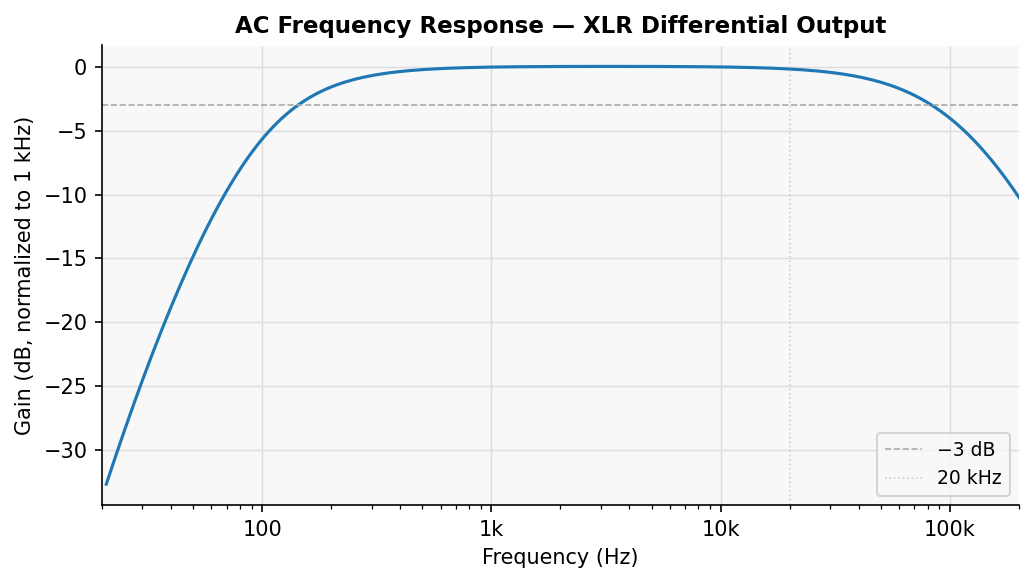
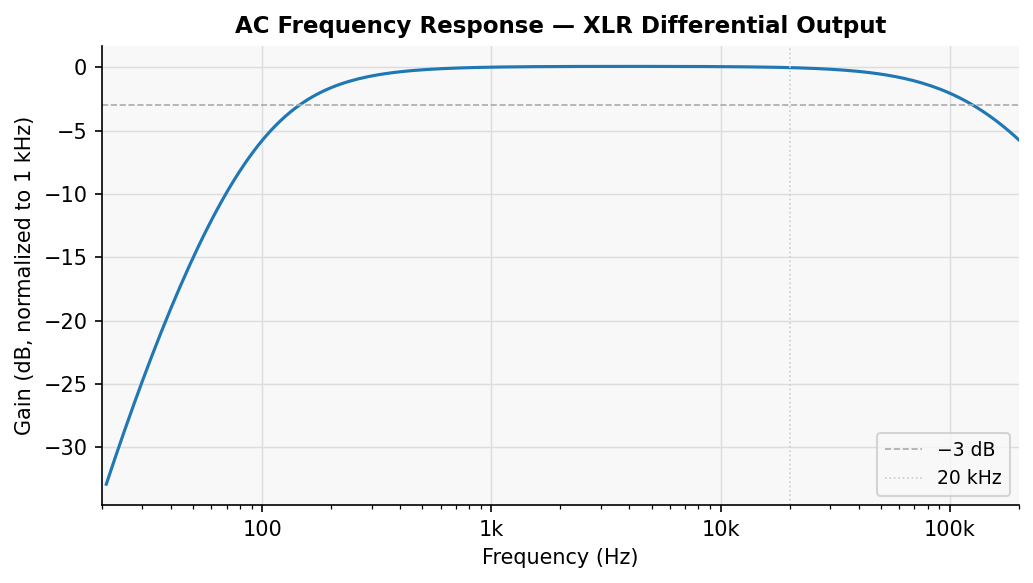
feat: add RFI filter on XLR output (issue #5)
100Ω series + 100pF C0G shunt on each XLR leg after transformer
secondary (fc ~16 MHz). New nets XLR_HOT_F / XLR_COLD_F inserted
between transformer and J3. R_RFI1/2 silk positioned at x=component,
vertical (90°). Sim updated; freq_response.png regenerated.

diff --git a/pcb/gen_pcb.py b/pcb/gen_pcb.py
@@ -563,13 +563,13 @@ def route_all(board):
           (8.0,    62.0))
     # S3 (TP1.3) is floating — no GND connection to (18,62)
 
-    # ── XLR_HOT: T1B-pad1 → J3-pad2 ────────────────────────────────────────
-    # T1B pad1 (17.0,82.0); J3-pad2 (20.0,92.0)
+    # ── XLR_HOT: T1B-pad1 → R_RFI1-pad2 ────────────────────────────────
+    # T1B pad1 (17.0,82.0); R_RFI1 pad2 (10.0,85.47)
     # Jog down to y=83 before going left: V_OPA_RAW horizontal at y=82.2 (x=12-13, w=0.3mm)
     # would overlap XLR_HOT at y=82.0 (w=0.2mm); y=83 gives 0.55mm gap ✓
     # y=83 vs R2.pad1 (XLR_COLD, y=83.825 top=83.35): gap=0.25mm ✓
     # y=83 vs R2.pad2 (V_OPA_RAW, y=82.175 top=82.65): gap=0.25mm ✓
-    # XLR_HOT vertical at x=10: MH3 screw head (~r=2.5mm from x=6) edge at x=8.5; gap=1.4mm ✓
+    # XLR_HOT vertical at x=10: MH3 copper edge at x=7.55; gap=2.45mm ✓
     route(board, "XLR_HOT", F, SIG,
           (17.0,  82.0),
           (17.0,  83.0),
@@ -578,12 +578,18 @@ def route_all(board):
     route(board, "XLR_HOT", F, SIG, (10.0, 80.8), (12.0, 80.8))  # R1 tap
     route(board, "XLR_HOT", F, SIG,
           (10.0,  83.0),
-          (10.0,  88.54),
-          (20.0,  88.54),
-          (20.0,  90.0))
+          (10.0,  85.47))   # to R_RFI1 pad2
 
-    # ── XLR_COLD: T1B-pad2 → J3-pad3 ───────────────────────────────────────
-    # T1B pad2 (22.0,82.0); J3-pad3 (22.54,92.0)
+    # ── XLR_HOT_F: R_RFI1-pad1 → C_RFI1-pad1 + J3-pad2 ─────────────
+    # R_RFI1 pad1 (10.0,86.53); T-junction at (10,87); C_RFI1 pad1 (12.47,87)
+    # GND: C_RFI1 pad2 (13.53,87) → short stub → via → B.Cu GND plane
+    route(board, "XLR_HOT_F", F, SIG, (10.0, 86.53), (10.0, 87.0), (12.47, 87.0))
+    route(board, "XLR_HOT_F", F, SIG, (10.0, 87.0), (10.0, 88.54), (20.0, 88.54), (20.0, 90.0))
+    route(board, "GND", F, SIG, (13.53, 87.0), (13.53, 87.7))
+    via(board, "GND", 13.53, 87.7)
+
+    # ── XLR_COLD: T1B-pad2 → R_RFI2-pad2 ───────────────────────────────
+    # T1B pad2 (22.0,82.0); R_RFI2 pad2 (22.0,85.47)
     # P2 below transformer cutout — simple F.Cu; no CLKB/VBOOST conflicts below y=77.3
     # R2 tap at (12,83.8) approached from x=22; XLR_HOT vertical at x=10 stays left of x=12 ✓
     route(board, "XLR_COLD", F, SIG,
@@ -592,9 +598,15 @@ def route_all(board):
           (12.0,  83.8))   # R2 tap
     route(board, "XLR_COLD", F, SIG,
           (22.0,  83.8),
-          (22.0,  89.0),
-          (22.54, 89.0),
-          (22.54, 90.0))
+          (22.0,  85.47))   # to R_RFI2 pad2
+
+    # ── XLR_COLD_F: R_RFI2-pad1 → C_RFI2-pad1 + J3-pad3 ───────────
+    # R_RFI2 pad1 (22.0,86.53); T-junction at (22,87); C_RFI2 pad1 (24.47,87)
+    # GND: C_RFI2 pad2 (25.53,87) → short stub → via → B.Cu GND plane
+    route(board, "XLR_COLD_F", F, SIG, (22.0, 86.53), (22.0, 87.0), (24.47, 87.0))
+    route(board, "XLR_COLD_F", F, SIG, (22.0, 87.0), (22.0, 89.0), (22.54, 89.0), (22.54, 90.0))
+    route(board, "GND", F, SIG, (25.53, 87.0), (25.53, 87.7))
+    via(board, "GND", 25.53, 87.7)
 
 
     # ── Dickson pump nodes ───────────────────────────────────────────────────
@@ -823,6 +835,25 @@ def main():
           "R2", "6.8k 0.1%", 12, 83, 90,
           {"1": "XLR_COLD", "2": "V_OPA_RAW"})
 
+    # RFI filter: 100R series + 100pF C0G shunt on each XLR leg (fc ~16 MHz)
+    # Placed in-line with XLR_HOT/COLD verticals (x=10, x=22) at y=86
+    # Shunt caps at y=87, 1.5mm right of series R; GND via below each cap
+    place(board, "Resistor_SMD", "R_0402_1005Metric",
+          "R_RFI1", "100R", 10, 86, 90,
+          {"1": "XLR_HOT_F", "2": "XLR_HOT"})
+
+    place(board, "Resistor_SMD", "R_0402_1005Metric",
+          "R_RFI2", "100R", 22, 86, 90,
+          {"1": "XLR_COLD_F", "2": "XLR_COLD"})
+
+    place(board, "Capacitor_SMD", "C_0402_1005Metric",
+          "C_RFI1", "100p C0G", 13, 87, 0,
+          {"1": "XLR_HOT_F", "2": "GND"})
+
+    place(board, "Capacitor_SMD", "C_0402_1005Metric",
+          "C_RFI2", "100p C0G", 25, 87, 0,
+          {"1": "XLR_COLD_F", "2": "GND"})
+
     # U2: 78L24 linear regulator SOT-89  (OUT=pad1, GND=pad2, IN=pad3)
     place(board, "Package_TO_SOT_SMD", "SOT-89-3",
           "U2", "L78L24", 23, 44, 0,
@@ -961,9 +992,9 @@ def main():
           {"1": "HV_FILT", "2": "GND"})
 
     # ── XLR output solder pads (bare THT, horizontal row) ────────────────────
-    # J3.1=(17.46,90)=GND, J3.2=(20,90)=XLR_HOT, J3.3=(22.54,90)=XLR_COLD
-    # XLR_HOT approaches J3.2 from above at x=20; XLR_COLD approaches J3.3 from above at x=22.54
-    place_solder_pads(board, "J3", 17.46, 90, ["GND", "XLR_HOT", "XLR_COLD"], axis='x')
+    # J3.1=(17.46,90)=GND, J3.2=(20,90)=XLR_HOT_F, J3.3=(22.54,90)=XLR_COLD_F
+    # XLR_HOT_F approaches J3.2 from above at x=20; XLR_COLD_F approaches J3.3 from above at x=22.54
+    place_solder_pads(board, "J3", 17.46, 90, ["GND", "XLR_HOT_F", "XLR_COLD_F"], axis='x')
 
     # ── Route all nets + zones ────────────────────────────────────────────────
     route_all(board)
@@ -1017,6 +1048,17 @@ def main():
     # R1/R2: rotated 90°, align silk to same x=14 so labels form a vertical straight line
     fix_ref(board, "R1", x_mm=14, y_mm=80)
     fix_ref(board, "R2", x_mm=14, y_mm=83)
+
+    # R_RFI1: rotated 90°, default silk (8.83,86) overlaps C_RFI1 and is near MH3 copper.
+    # x=10 aligns with component body; y=82 clears R2 top pad (y=82.47) and stays left of R1/R2 silk (x=14).
+    fix_ref(board, "R_RFI1", x_mm=10, y_mm=82)
+
+    # R_RFI2: rotated 90°, default silk (20.83,86) overlaps C_RFI2 ref and P2 silk.
+    # x=20 is right of previous x=18, still clear of P2 (x=22,y=84) and C_RFI2 (x=25).
+    fix_ref(board, "R_RFI2", x_mm=20, y_mm=86)
+
+    fix_ref(board, "C_RFI1", x_mm=14.5, y_mm=85.5)
+    fix_ref(board, "C_RFI2", x_mm=26.5, y_mm=85.5)
 
     # C9: default ref at x=38.18 cut by new board edge (x=38); move above pads
     fix_ref(board, "C9", x_mm=36.5, y_mm=75.5)

diff --git a/pcb/gen_schematic.py b/pcb/gen_schematic.py
@@ -556,7 +556,30 @@ elements += component("Connector_Generic:Conn_01x02", "TS1", "NTE10/3_SEC",
 elements += component("Connector_Generic:Conn_01x03", "J3", "XLR_OUT",
     213, 67,
     footprint="",
-    pins={"1": "GND", "2": "XLR_HOT", "3": "XLR_COLD"})
+    pins={"1": "GND", "2": "XLR_HOT_F", "3": "XLR_COLD_F"})
+
+# RFI filter: 100R series + 100pF C0G shunt on each XLR leg (fc ~16 MHz)
+# Placed to the right of J3; XLR_HOT/COLD nets connect via local label to TS1
+# XLR_HOT_F/COLD_F connect via local label to J3 stubs above
+elements += component("Device:R", "R_RFI1", "100R",
+    235, 58,
+    footprint="Resistor_SMD:R_0402_1005Metric",
+    pins={"1": "XLR_HOT", "2": "XLR_HOT_F"})
+
+elements += component("Device:C", "C_RFI1", "100p C0G",
+    247, 58,
+    footprint="Capacitor_SMD:C_0402_1005Metric",
+    pins={"1": "XLR_HOT_F", "2": "GND"})
+
+elements += component("Device:R", "R_RFI2", "100R",
+    235, 76,
+    footprint="Resistor_SMD:R_0402_1005Metric",
+    pins={"1": "XLR_COLD", "2": "XLR_COLD_F"})
+
+elements += component("Device:C", "C_RFI2", "100p C0G",
+    247, 76,
+    footprint="Capacitor_SMD:C_0402_1005Metric",
+    pins={"1": "XLR_COLD_F", "2": "GND"})
 
 # TX_DRV: C7.pin2 stub_end (159,51.65) → TP1.pin1 stub_end (170.38,60.46)
 # C7(159,58) pin2(U) stub_end=(159,51.65); TP1(178,63) pin1(L) stub_end=(170.38,60.46)